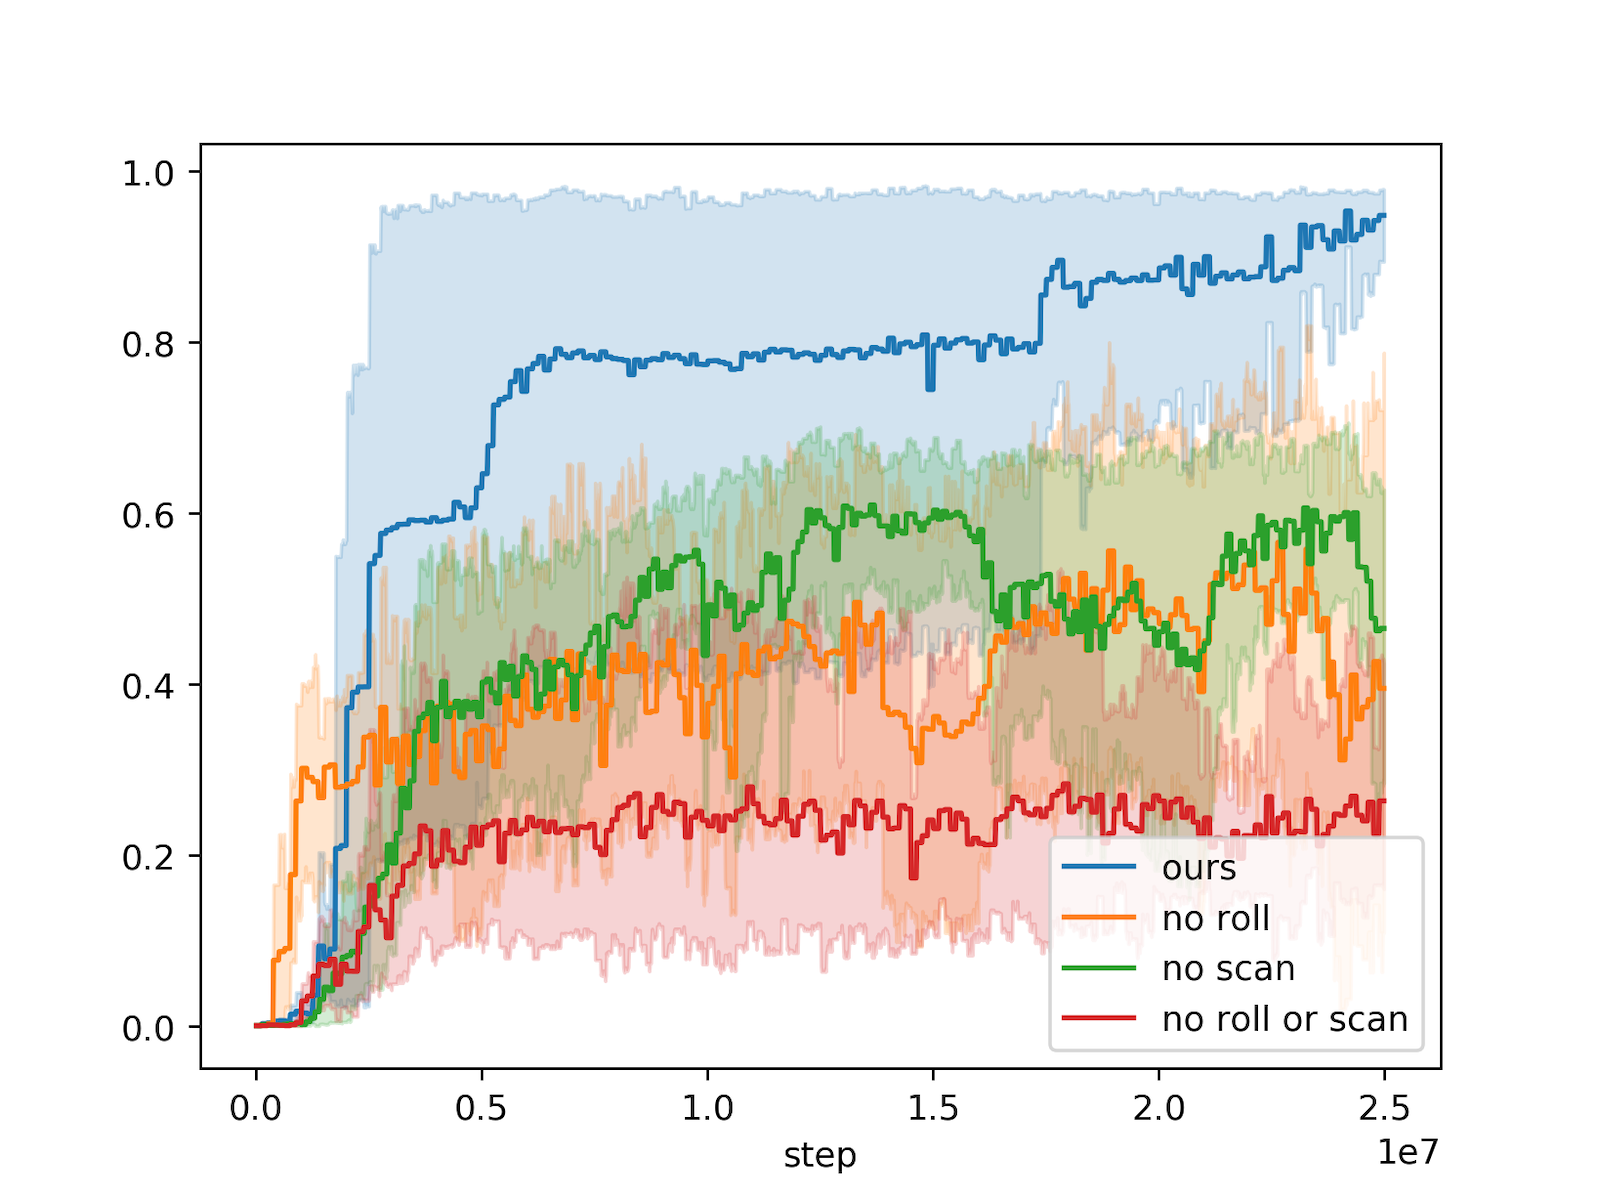
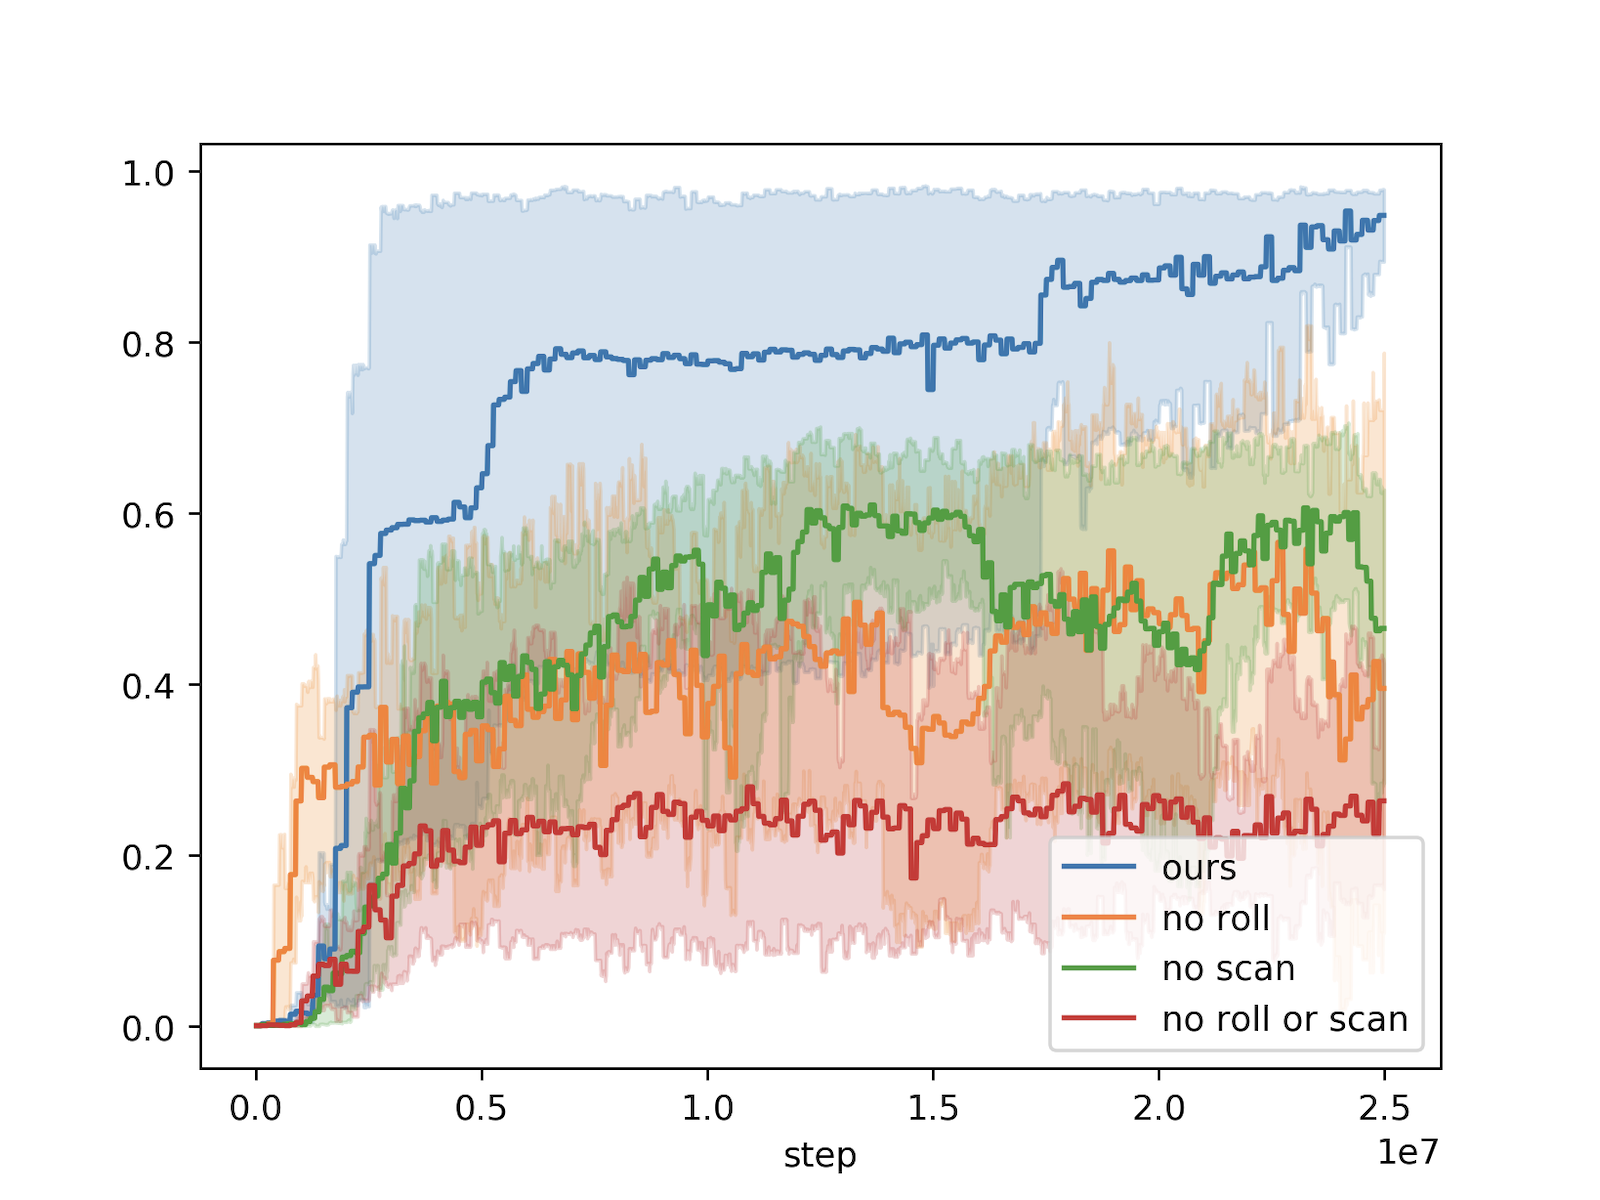
fix eval40

diff --git a/example_paper.tex b/example_paper.tex
@@ -662,7 +662,7 @@ $\mathbf{H} \in \mathbb{R}^{2K \times H}$
   \end{subfigure}%
   \begin{subfigure}{.33\textwidth}
     \centering
-    \centerline{\includegraphics[trim=20 0 39 28, clip, width=\columnwidth]{figures/eval40}}
+    \centerline{\includegraphics[trim=100 0 100 100, clip, width=\columnwidth]{figures/eval40}}
     \caption{Evaluation on instructions of length 40}
   \end{subfigure}%
   \caption{Each graph demonstrates the capability of the agent to generalize to
